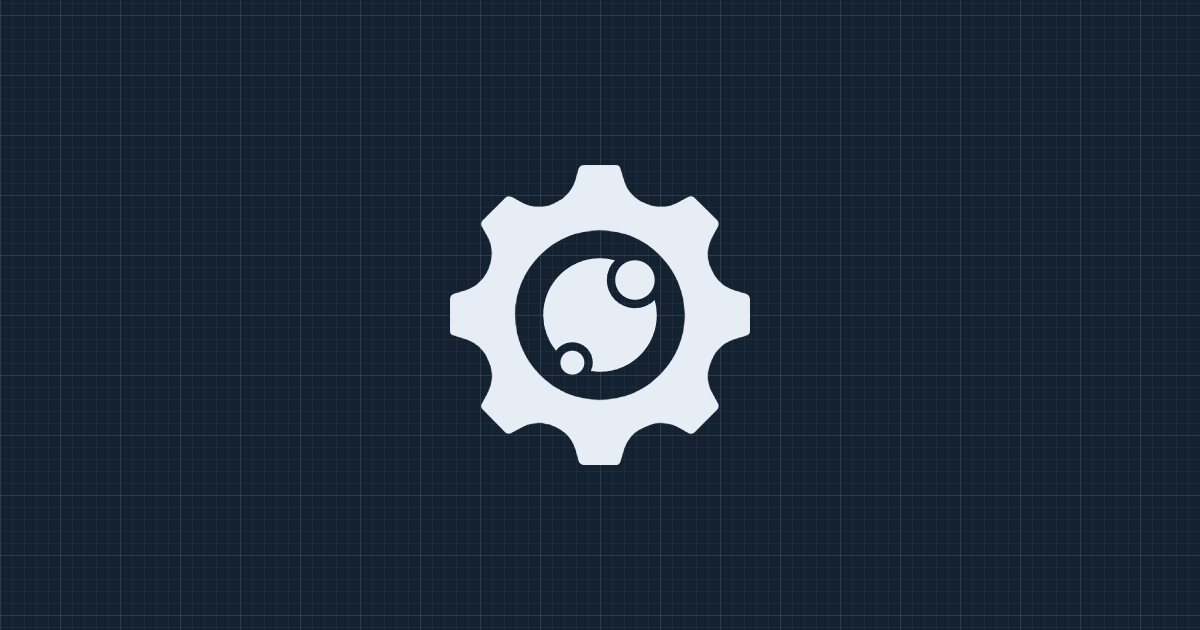
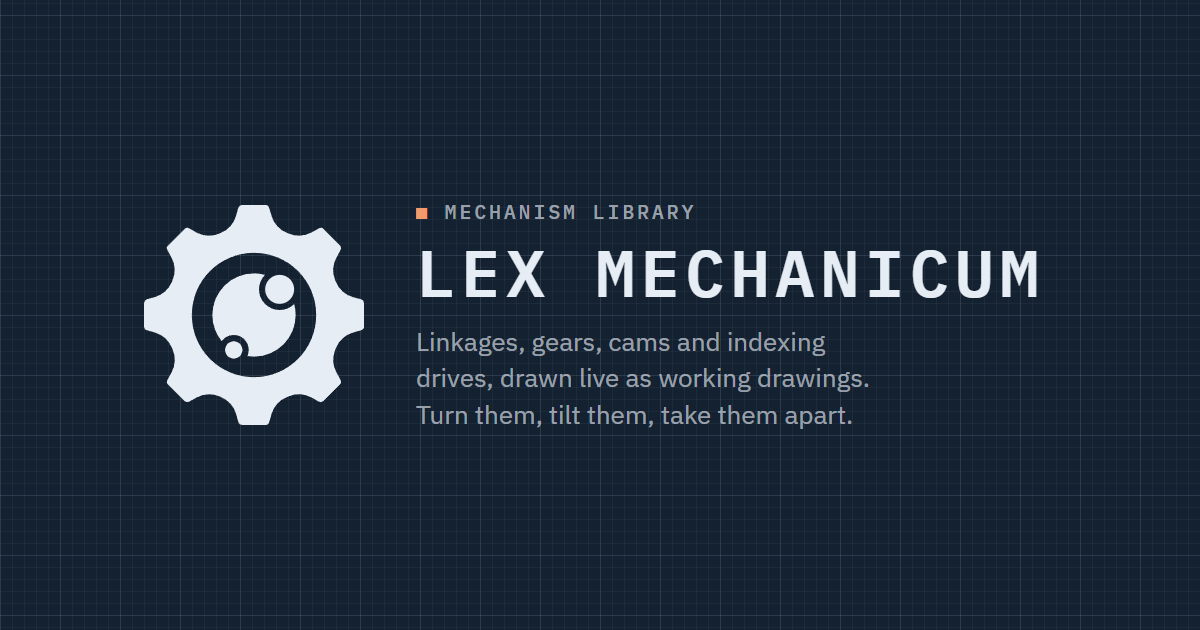
fix: library heading and link preview, 0.43.1 (#249)
Closes #248

Changed region(s): [[0.3392, 0.2413, 0.8633, 0.754], [0.0925, 0.3016, 0.3083, 0.6937]]

diff --git a/tools/brand.ts b/tools/brand.ts
@@ -6,7 +6,8 @@
 //   favicon.svg          the mark in the sheet's ink: Drafting ink in a light browser, Blueprint ink in a dark one
 //   favicon-{16,32,48}.png, favicon.ico (16, 32, 48)   fallbacks for browsers without SVG icons: Drafting ink, clear
 //   apple-touch-icon.png 180 px, the mark in Blueprint ink on Blueprint paper
-//   social.png           1200 x 630, the mark on the Blueprint sheet with its grid
+//   social.png           1200 x 630, the mark and the name on the Blueprint sheet with its grid (the library's and the
+//                        404 page's og:image; seo.ts versions its address with brand.json's fingerprint)
 import { createHash } from "node:crypto";
 import { copyFileSync, mkdirSync, readFileSync, writeFileSync } from "node:fs";
 import { join } from "node:path";
@@ -14,6 +15,7 @@ import { fileURLToPath } from "node:url";
 import { chromium } from "playwright-core";
 import { MARK_SHAPES, MARK_VIEWBOX } from "../site/src/mark";
 import { TOKENS } from "../src/style/tokens";
+import { inlineFontFaces } from "./tokens-css";
 
 const root = fileURLToPath(new URL("..", import.meta.url));
 export const BRAND_DIR = join(root, "site", "brand");
@@ -26,7 +28,7 @@ const light = TOKENS.themes.light;
 const ICON_SIZES = [16, 32, 48] as const;
 const TOUCH = 180; // px, apple-touch-icon
 const TOUCH_MARK = 0.72; // 0..1, the mark's share of the touch icon's side
-const CARD = { w: 1200, h: 630, mark: 300 }; // px, social card and the mark's side on it
+const CARD = { w: 1200, h: 630, mark: 220, gap: 52, text: 640 }; // px, social card, the mark's side, the gap to the words and their width
 
 /** Every file this writes into site/brand, brand.json aside. */
 export const BRAND_FILES = ["favicon.svg", ...ICON_SIZES.map((s) => `favicon-${s}.png`), "favicon.ico", "apple-touch-icon.png", "social.png"];
@@ -45,7 +47,7 @@ export const faviconSvg = () =>
 export function fingerprint(): string {
   const grid = Object.fromEntries(Object.entries(TOKENS.gridTiers).map(([k, v]) => [k, { dark: v.dark, light: v.light }]));
   const src = readFileSync(fileURLToPath(import.meta.url), "utf8").replace(/\r\n/g, "\n");
-  return createHash("sha256").update(JSON.stringify([MARK_VIEWBOX, MARK_SHAPES, dark, light, grid, TOKENS.size.grid, TOKENS.size.gridMajor, src])).digest("hex").slice(0, 16);
+  return createHash("sha256").update(JSON.stringify([MARK_VIEWBOX, MARK_SHAPES, dark, light, grid, TOKENS.size.grid, TOKENS.size.gridMajor, TOKENS.type, TOKENS.tiers, src])).digest("hex").slice(0, 16);
 }
 
 /** null when the committed images are drawn from the current mark and tokens, else what to run. */
@@ -59,7 +61,8 @@ export function brandStale(): string | null {
   return stored === fingerprint() ? null : "the icons and social card in site/brand are stale: run npx tsx tools/brand.ts and commit site/brand";
 }
 
-/** The social card page: the Blueprint sheet, its grid at the page's pitch and alphas, the mark in the middle. */
+/** The social card page: the Blueprint sheet, its grid at the page's pitch and alphas, the mark and beside it the name,
+ * the set and what the site does, lettered as the mechanisms' cards are (tools/cards.ts). */
 function cardHtml(): string {
   const g = TOKENS.size.grid;
   const major = g * TOKENS.size.gridMajor;
@@ -67,9 +70,18 @@ function cardHtml(): string {
     `linear-gradient(color-mix(in srgb, ${dark.grid} ${alpha * 100}%, transparent) 1px, transparent 1px) 0 0 / ${pitch}px ${pitch}px,` +
     `linear-gradient(90deg, color-mix(in srgb, ${dark.grid} ${alpha * 100}%, transparent) 1px, transparent 1px) 0 0 / ${pitch}px ${pitch}px`;
   const bg = `${line(TOKENS.gridTiers.grid2.dark, major)},${line(TOKENS.gridTiers.grid1.dark, g)},${dark.paper}`;
-  // the grid is centred on the mark, as the drawing's grid is centred on the drawing (SF12)
+  // the grid is centred on the card, as the drawing's grid is centred on the drawing (SF12)
   const pos = `${(CARD.w / 2) % major}px ${(CARD.h / 2) % major}px`;
-  return `<body style="margin:0;width:${CARD.w}px;height:${CARD.h}px;display:grid;place-items:center;background:${bg};background-position:${pos}">${markSvg(dark.ink, CARD.mark)}</body>`;
+  const T = TOKENS.type;
+  const muted = `color-mix(in srgb, ${dark.ink} ${TOKENS.tiers.muted.dark * 100}%, transparent)`;
+  return `<style>${inlineFontFaces()}
+.c{display:flex;align-items:center;gap:${CARD.gap}px}
+.w{width:${CARD.text}px;color:${dark.ink}}
+.k{margin:0;font:500 20px ${T.mono};letter-spacing:${T.tracking.monoWide}em;color:${muted}}
+.k b{color:${dark.accent};font-weight:500}
+.n{margin:14px 0 18px;font:600 66px/1 ${T.mono};letter-spacing:${T.tracking.mono}em}
+.t{margin:0;font:400 26px/1.4 ${T.body};color:${muted};text-wrap:balance}
+</style><body style="margin:0;width:${CARD.w}px;height:${CARD.h}px;display:grid;place-items:center;background:${bg};background-position:${pos}"><div class="c">${markSvg(dark.ink, CARD.mark)}<div class="w"><p class="k"><b>&#9632;</b> MECHANISM LIBRARY</p><p class="n">LEX MECHANICUM</p><p class="t">Linkages, gears, cams and indexing drives, drawn live as working drawings. Turn them, tilt them, take them apart.</p></div></div></body>`;
 }
 
 /** The touch icon page: the mark centred on Blueprint paper. */
@@ -105,6 +117,7 @@ export async function drawBrand(): Promise<void> {
     const shot = async (html: string, w: number, h: number, clear: boolean): Promise<Buffer> => {
       const page = await browser.newPage({ viewport: { width: w, height: h }, deviceScaleFactor: 1 });
       await page.setContent(`<!doctype html><meta charset="utf-8">${html}`);
+      await page.evaluate(() => document.fonts.ready);
       const png = await page.screenshot({ omitBackground: clear, clip: { x: 0, y: 0, width: w, height: h } });
       await page.close();
       return png;

diff --git a/tools/cards.ts b/tools/cards.ts
@@ -8,8 +8,7 @@
 import { createHash } from "node:crypto";
 import { execFileSync } from "node:child_process";
 import { existsSync, mkdirSync, readFileSync, writeFileSync } from "node:fs";
-import { createRequire } from "node:module";
-import { dirname, join } from "node:path";
+import { join } from "node:path";
 import { fileURLToPath } from "node:url";
 import { MARK_SHAPES, MARK_VIEWBOX } from "../site/src/mark";
 import { recordById } from "../src/catalog";
@@ -18,7 +17,7 @@ import { TOKENS } from "../src/style/tokens";
 import type { Page } from "playwright-core";
 import { openChrome3, type Chrome3, type Draw3Options } from "./chrome3";
 import { STILL, fingerprints as thumbFingerprints } from "./thumbs";
-import { FONT_FILES } from "./tokens-css";
+import { inlineFontFaces } from "./tokens-css";
 
 /** px: the card, the title block's height under the drawing, the mark's side in it; JPEG quality 0..1. */
 export const CARD = { w: 1200, h: 630, block: 150, mark: 64, pad: 40, name: 64, nameMin: 36, quality: 0.86 };
@@ -28,7 +27,6 @@ const SAME = 0.001;
 const root = fileURLToPath(new URL("..", import.meta.url));
 export const CARDS_DIR = join(root, "site", "cards");
 const MANIFEST = join(CARDS_DIR, "manifest.json");
-const require = createRequire(import.meta.url);
 const dark = TOKENS.themes.dark;
 
 /** The drawing above the title block: the stage's opening frame on Blueprint, no sheet frame (the card is its sheet). */
@@ -95,14 +93,6 @@ export async function checkCards(ids: string[], packages: Map<string, Uint8Array
   if (bad.length) throw new Error(`social cards out of date: ${bad.map((b) => `${b.id} (${b.why.join(", ")})`).join("; ")}. Run npm run cards and commit site/cards.`);
 }
 
-/** The faces the title block uses, inline: the card page has no font server. */
-function faces(): string {
-  return FONT_FILES.map((f) => {
-    const file = join(dirname(require.resolve(`@fontsource/${f.slug}/package.json`)), "files", `${f.slug}-latin-${f.weight}-normal.woff2`);
-    return `@font-face{font-family:"${f.family}";font-weight:${f.weight};src:url(data:font/woff2;base64,${readFileSync(file).toString("base64")}) format("woff2")}`;
-  }).join("");
-}
-
 const esc = (t: string) => t.replace(/&/g, "&amp;").replace(/</g, "&lt;");
 const inkAt = (alpha: number) => `color-mix(in srgb, ${dark.ink} ${alpha * 100}%, transparent)`;
 
@@ -147,7 +137,7 @@ export async function cards(ids = allIds(), all = false): Promise<string[]> {
   const todo = all ? ids : staleCards(manifest, now).map((s) => s.id);
   const files: string[] = [];
   if (todo.length) {
-    const fonts = faces();
+    const fonts = inlineFontFaces();
     const chrome = await openChrome3();
     try {
       const page = await chrome.page.context().browser()!.newPage({ viewport: { width: CARD.w, height: CARD.h }, deviceScaleFactor: 1 });

diff --git a/tests/site/build.test.ts b/tests/site/build.test.ts
@@ -118,9 +118,10 @@ describe("site build", () => {
     }
   });
 
-  it("names the app, Lex Mechanicum, in the library's kicker, the footer and every page's head", () => {
+  it("names the app, Lex Mechanicum, in the library's heading under the Mechanism Library kicker, the footer and every page's head", () => {
     const lib = read("index.html");
-    expect(lib).toContain('<p class="kicker">Lex Mechanicum · drawing set</p>');
+    expect(lib).toContain('<p class="kicker">Mechanism Library</p>');
+    expect(lib).toMatch(new RegExp(`<h1>Lex Mechanicum <span>${allIds().length}</span></h1>`));
     for (const f of ["index.html", "404.html", join("mechanisms", allIds()[0]!, "index.html")]) {
       const html = read(f);
       expect(html, f).toContain('<meta name="application-name" content="Lex Mechanicum">');
@@ -162,6 +163,12 @@ describe("site build", () => {
     expect(html).toContain(`<span>drawn under XVI laws · ${codename ? `${codename} · ` : ""}${version}</span>`);
   });
 
+  it("keeps every page's description short enough for search results (about 155 characters)", () => {
+    const desc = (html: string) => /<meta name="description" content="([^"]*)"/.exec(html)![1]!.replace(/&#39;|&quot;|&amp;/g, "x");
+    expect(desc(read("index.html")).length).toBeLessThanOrEqual(155);
+    for (const id of allIds()) expect(desc(read(join("mechanisms", id, "index.html"))).length, id).toBeLessThanOrEqual(160);
+  });
+
   it("lists the library and every mechanism page in the sitemap, and points robots.txt at it", () => {
     const locs = [...read("sitemap.xml").matchAll(/<loc>([^<]+)<\/loc>/g)].map((m) => new URL(m[1]!));
     expect(locs).toHaveLength(allIds().length + 1);
@@ -184,6 +191,9 @@ describe("site build", () => {
     expect(lib).toMatch(/<title>Lex Mechanicum · Mechanism Library<\/title>/);
     expect(lds(lib).map((d) => d["@type"])).toEqual(["WebSite", "Organization"]);
     expect(meta(lib, "google-site-verification")).toBeTruthy();
+    // the mark's card, its address versioned by what it is drawn from (brand.json)
+    const fingerprint = (JSON.parse(readFileSync("site/brand/brand.json", "utf8")) as { fingerprint: string }).fingerprint;
+    expect(new URL(meta(lib, "og:image")!).search).toBe(`?v=${fingerprint}`);
     expect(lib).toMatch(/<script async data-goatcounter="https:\/\/[a-z0-9-]+\.goatcounter\.com\/count" src="https:\/\/gc\.zgo\.at\/count\.js">/);
     for (const id of allIds()) {
       const html = read(join("mechanisms", id, "index.html"));

diff --git a/tools/tokens-css.ts b/tools/tokens-css.ts
@@ -2,7 +2,8 @@
 // generated, never edited: a dark :root block, a light :root[data-theme="light"] block and a forge :root[data-theme="forge"]
 // block with the same names, derived ink tiers and grid alphas as colour-mixes of the theme colours, then the type families
 // and shared sizes.
-import { mkdirSync, writeFileSync } from "node:fs";
+import { mkdirSync, readFileSync, writeFileSync } from "node:fs";
+import { createRequire } from "node:module";
 import { dirname, join } from "node:path";
 import { fileURLToPath } from "node:url";
 import { COLOR_NAMES, TOKENS, type ThemeKey } from "../src/style/tokens";
@@ -38,6 +39,15 @@ export const FONT_FILES = (["display", "body", "mono"] as const).flatMap((f) => 
   const slug = family.toLowerCase().replace(/ /g, "-");
   return TOKENS.type.weights[f].map((w) => ({ family, slug, weight: w, file: `${slug}-${w}.woff2` }));
 });
+
+/** The faces as @font-face rules with the fonts inline, for a page with no font server (the social cards). */
+export function inlineFontFaces(): string {
+  const require = createRequire(import.meta.url);
+  return FONT_FILES.map((f) => {
+    const file = join(dirname(require.resolve(`@fontsource/${f.slug}/package.json`)), "files", `${f.slug}-latin-${f.weight}-normal.woff2`);
+    return `@font-face{font-family:"${f.family}";font-weight:${f.weight};src:url(data:font/woff2;base64,${readFileSync(file).toString("base64")}) format("woff2")}`;
+  }).join("");
+}
 
 const fontFaces = () =>
   FONT_FILES.flatMap((f) => [

diff --git a/site/src/data.ts b/site/src/data.ts
@@ -7,7 +7,7 @@ import type { Kin, Teaching } from "../../src/catalog/kin";
 import { workIds } from "../../src/mechanisms";
 import { originKey, type Sortable } from "./sort";
 
-/** The app's name: the library's kicker, the footer and the site name in every page's head. */
+/** The app's name: the library's heading, the footer and the site name in every page's head. */
 export const APP = "Lex Mechanicum";
 export const VERSION = pkg.version;
 

diff --git a/CHANGELOG.md b/CHANGELOG.md
@@ -1,5 +1,11 @@
 # Changelog
 
+## 0.43.1, Agripinaa — 2026-10-25
+
+- The library is headed Lex Mechanicum, under a Mechanism Library kicker. Its link preview fits: a shorter description,
+  and a card with the name and what the site does beside the mark, at an address that changes with the card so
+  services fetch the new one.
+
 ## 0.43.0, Agripinaa — 2026-10-25
 
 - Ready for search and sharing: a sitemap and robots.txt, a canonical address on every page, and titles that carry
